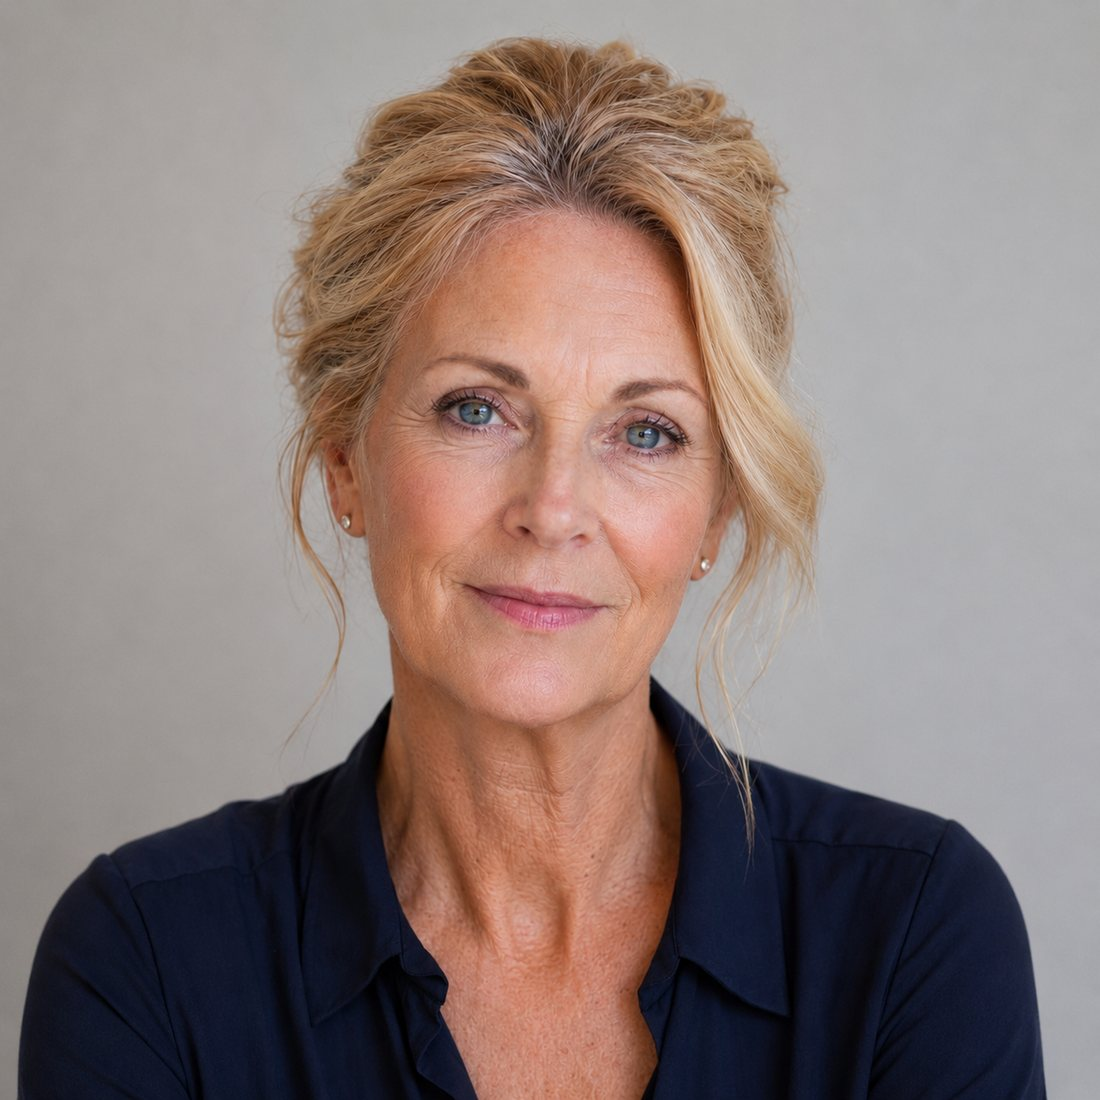
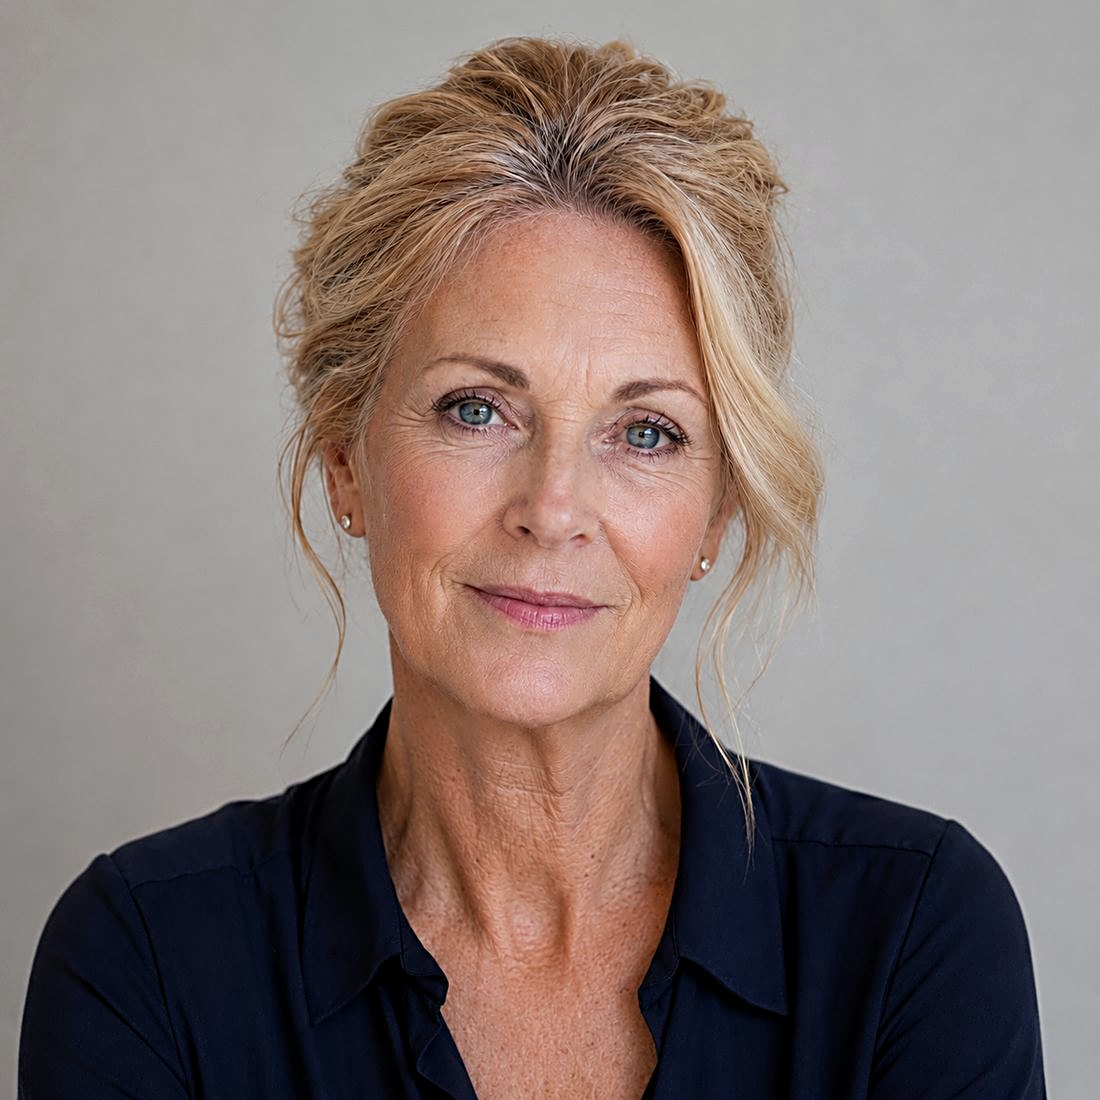
Make the before/after contrast clearly visible
The two photos were nearly indistinguishable at page scale, so the
before image gets a gentle texture pass (small-radius sharpen, slight
desaturation and contrast) to make its lines and duller tone read
against the smooth after photo, without halo artifacts. The divider
now starts at 25% so the page loads with the clean after photo
revealed and a before strip on the left, matching the reference.

diff --git a/index.html b/index.html
@@ -275,7 +275,7 @@
         </div>
         <span class="ba-label ba-label--before">Before</span>
         <span class="ba-label ba-label--after">After</span>
-        <input type="range" class="ba-slider__range" id="baRange" min="0" max="100" value="50" aria-label="Drag to compare before and after">
+        <input type="range" class="ba-slider__range" id="baRange" min="0" max="100" value="25" aria-label="Drag to compare before and after">
       </div>
       <p class="ba-caption">Individual results may vary.</p>
     </div>

diff --git a/assets/theme.css b/assets/theme.css
@@ -541,7 +541,7 @@ h1, h2, h3, .logo { font-family: var(--font-display); }
   aspect-ratio: 1;
   border-radius: var(--radius);
   overflow: hidden;
-  --pos: 50%;
+  --pos: 25%;
   touch-action: none;
   user-select: none;
 }
